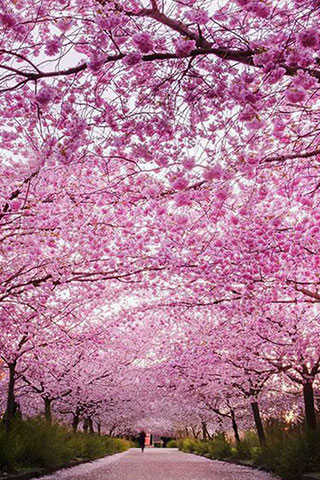
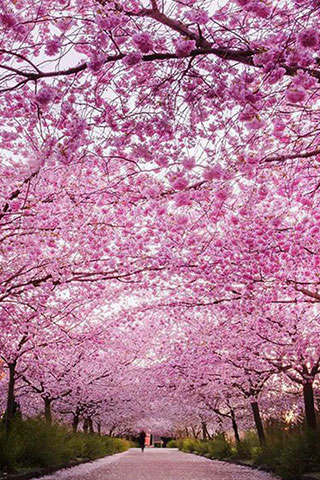
mod background display and size

diff --git a/petal/index.html b/petal/index.html
@@ -19,9 +19,6 @@
         }
 
         #canvas {
-            background-image: url(./imgs/bg0.jpg);
-            background-repeat: no-repeat;
-            background-size: cover;
             position: fixed;
             top: 0;
             left: 0;
@@ -29,41 +26,88 @@
             bottom: 0;
             margin: 0 auto;
         }
+
+        .bg {
+            position: fixed;
+            left: 0;
+            top: 0;
+            width: 100%;
+            height: 100%;
+            -webkit-transition: opacity 2s linear;
+            -moz-transition: opacity 2s linear;
+            -o-transition: opacity 2s linear;
+            transition: opacity 2s linear;
+            opacity: 0;
+        }
+
+        #bg1 {
+            background: url(./imgs/bg0.jpg) no-repeat;
+            background-size: cover;
+        }
+
+        #bg2 {
+            background: url(./imgs/bg1.jpg) no-repeat;
+            background-size: cover;
+        }
+
+        #bg3 {
+            background: url(./imgs/bg2.jpg) no-repeat;
+            background-size: cover;
+        }
+
+        .fadein {
+            opacity: 1;
+            filter: alpha(opacity=1);
+        }
     </style>
 </head>
 
 <body>
+    <div id="imgs">
+        <div id="bg1" class="bg fadein"></div>
+        <div id="bg2" class="bg"></div>
+        <div id="bg3" class="bg"></div>
+    </div>
     <canvas id="canvas"></canvas>
     <script>
+        //requestAnimationFrame 兼容
+        window.requestAnimationFrame =
+            window.requestAnimationFrame ||
+            window.webkitRequestAnimationFrame ||
+            window.mozRequestAnimationFrame ||
+            window.oRequestAnimationFrame ||
+            window.msRequestAnimationFrame ||
+            function (callback) {
+                window.setTimeout(callback, 1000 / 60);
+            };
         //初始变量
         var canvas = document.getElementById("canvas");
         var canvasHeight = 0;
         var canvasHeight = 0;
         var ctx = canvas.getContext('2d');
         var petals = [];
-        var width = 0;
-        var height = 0;
-        var bgIndex = 0;
 
         var Petal = function (px, py) {
             this.x = this.y = this.dx = this.dy = 0;
             this.image = genFlower();
             this.reset(px, py);
         }
+
         Petal.prototype.reset = function (px, py) {
             this.y = py;
             this.x = px;
             this.dx = (Math.random() * 1) - 0.5;
             this.dy = (Math.random() * 0.8) + 0.5;
         }
+
         function createPetals(cnt, px, py) {
             if (cnt != petals.lenth) {
-                // petals = [];
                 while (cnt--) {
                     petals.push(new Petal(px, py));
                 }
             }
         }
+
         function updatePetals() {
             ctx.clearRect(0, 0, canvasWidth, canvasHeight);
             petals.forEach(function (p) {
@@ -77,33 +121,16 @@
             window.requestAnimationFrame(updatePetals);
         }
 
-        //requestAnimationFrame 兼容
-        window.requestAnimationFrame =
-            window.requestAnimationFrame ||
-            window.webkitRequestAnimationFrame ||
-            window.mozRequestAnimationFrame ||
-            window.oRequestAnimationFrame ||
-            window.msRequestAnimationFrame ||
-            function (callback) {
-                window.setTimeout(callback, 1000 / 60);
-            };
-
-        window.addEventListener("resize", resizeCanvas, false);
-        // window.addEventListener('load', changebg, false);
-        canvas.addEventListener('touchstart', draw, false);
-        canvas.addEventListener('touchmove', draw, false);
-        canvas.addEventListener('mouseover', draw, false)
-        window.onload = function () {
-            setInterval(function () {
-                canvas.setAttribute('style', 'background-image:url(./imgs/bg' + (++bgIndex % 3) + '.jpg)');
-                console.log(canvas.style.a)
-            }, 8000);
-        }
         function draw(e) {
-            if (e) {
+            if (e.touches) {
                 touch = e.touches[0]
                 px = touch.pageX;
                 py = touch.pageY;
+                createPetals(1, px, py);
+            }
+            else if (e.clientX || e.pageX) {
+                px = e.clientX || e.pageX;
+                py = e.clientY || e.pageY;
                 createPetals(1, px, py);
             }
         }
@@ -115,7 +142,6 @@
             }
         }
 
-
         function genFlower() {
             var img = ['./imgs/f1.png', './imgs/f2.png', './imgs/f3.png', './imgs/f4.png'];
             var index = Math.floor(Math.random() * img.length);
@@ -123,6 +149,35 @@
             imgObj.src = img[index];
             return imgObj
         }
+
+        function fadeIn(e) {
+            e.className = "bg fadein"
+        };
+
+        function fadeOut(e) {
+            e.className = "bg"
+        };
+
+        cur_img = document.getElementById("imgs").children.length - 1;
+
+        function turnImgs(imgs) {
+            var imgs = document.getElementById("imgs").children;
+            if (cur_img == 0) {
+                fadeOut(imgs[cur_img]);
+                cur_img = imgs.length - 1;
+                fadeIn(imgs[cur_img]);
+            } else {
+                fadeOut(imgs[cur_img]);
+                fadeIn(imgs[cur_img - 1]);
+                cur_img--;
+            }
+        }
+        window.addEventListener("resize", resizeCanvas, false);
+        canvas.addEventListener('touchstart', draw, false);
+        canvas.addEventListener('touchmove', draw, false);
+        canvas.addEventListener('mouseover', draw, false);
+        canvas.addEventListener('mousemove', draw, false);
+        setInterval(turnImgs, 5000);
         resizeCanvas()
         updatePetals()
     </script>
